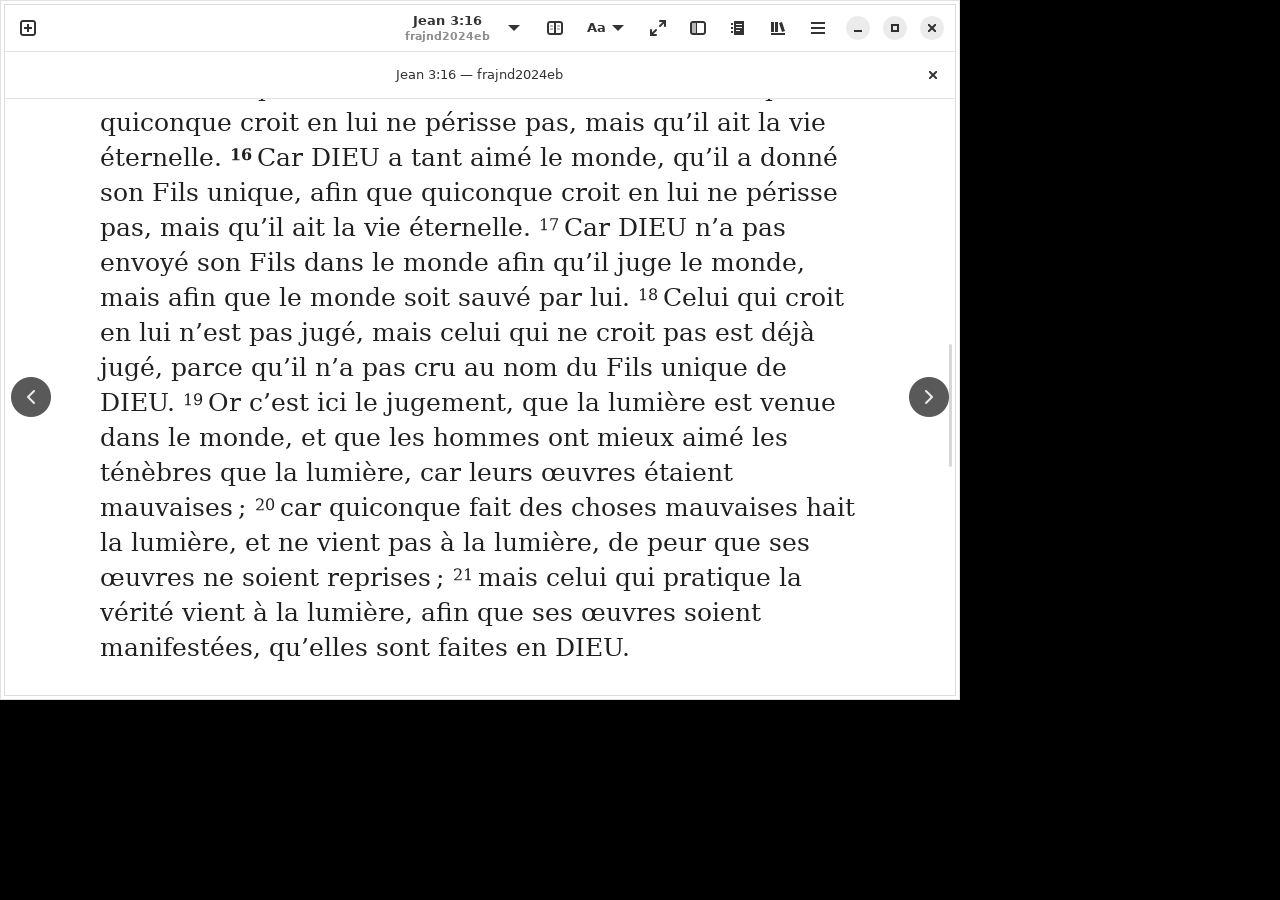
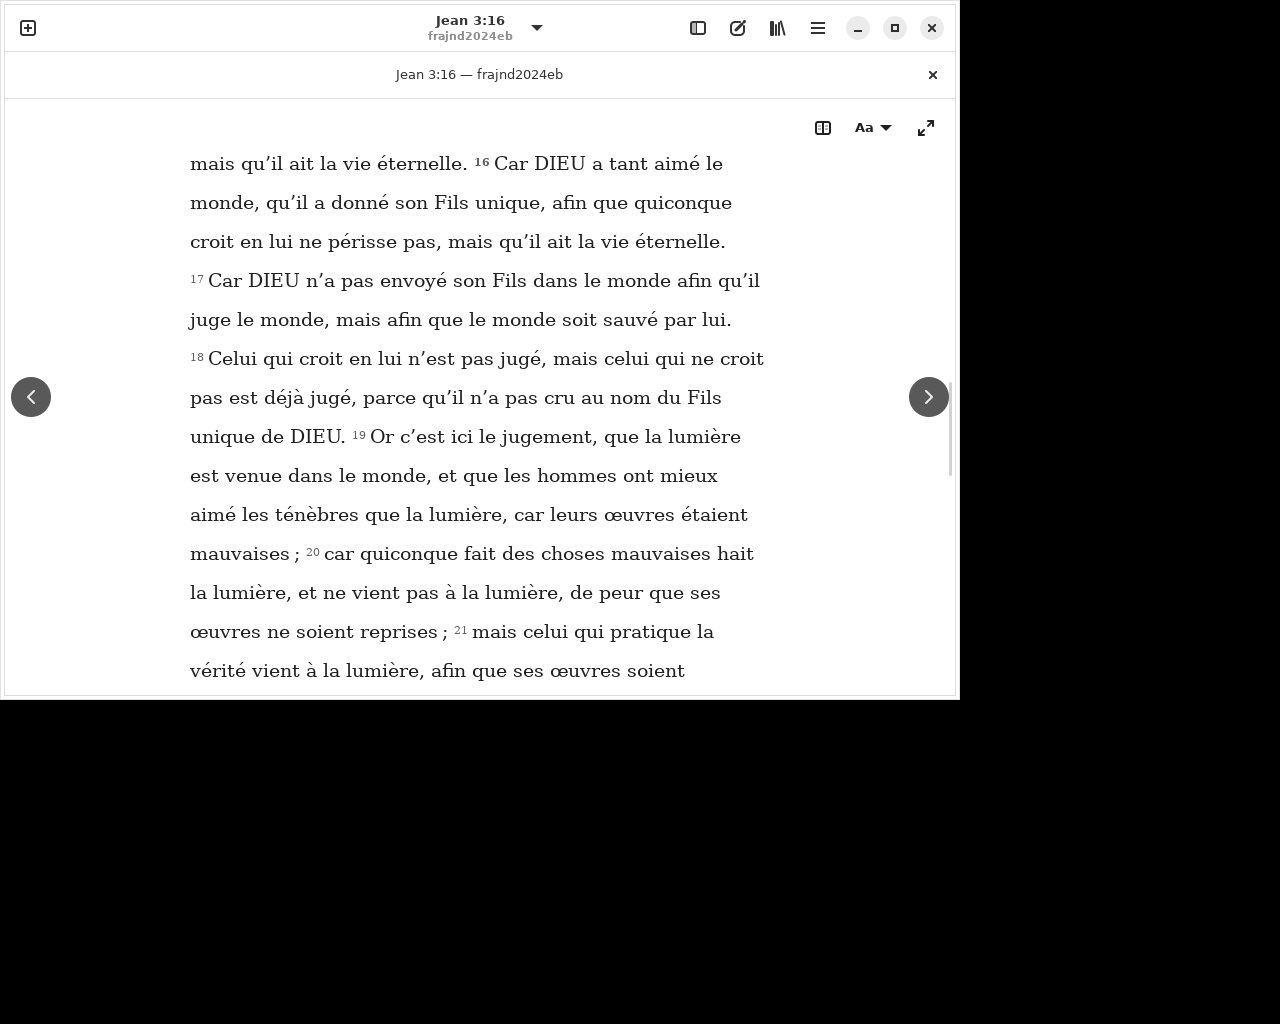
Complete eBible source review and record current guarded metadata inconsistencies

diff --git a/docs/EBIBLE_34_REVIEW.md b/docs/EBIBLE_34_REVIEW.md
@@ -67,3 +67,36 @@ partial failures, cache retention and GTK installed-state checks. JND package
 Catalogue and reader screenshots are in `docs/captures/ebible-34-*-fr.png`.
 These are candidate-source Xvfb checks; a packaged candidate and manual GNOME
 validation are separate, still outstanding checks.
+
+
+## Final source review and integration
+
+The client authorized completing the source review and integration. Current main,
+including #51/#36 corrections and the approved website, is merged. The current
+official AndBible repository file (blob `54e501d47f071e4f0991b3da8b6522bf3ec82dc7`)
+still names HTTPS ebible.org /sword and /sword/zip. Only this stable source is
+added; identity/collision, language, cache and archive/conditions guards are kept.
+No beta, restricted source or Bible.com access is introduced.
+
+The five current catalogue/package pairs were inspected through the normal
+bounded HTTPS downloader. [Exact audit](evidence/ebible-34-current-audit.json):
+
+| Resource | Catalogue/package version | Current guarded metadata |
+| --- | --- | --- |
+| F10 | 90.0 / 99.0 | About differs: installation refused |
+| FOB | 61.0 / 71.0 | About differs: installation refused |
+| FRANCL | 498.0 / 1234.0 | About and conditions differ: installation refused |
+| JND | 2.7 / 2.17 | Guarded terms/type match: installs as actual version 2.17 |
+| SBL | 112.0 / 170.0 | About differs: installation refused |
+
+The four refused installations return the unchanged `Resource conditions changed`
+guard. JND's stale catalogue version is disclosed too; the installer already
+compares actual source/type/versification and complete guarded legal fields,
+not a separate version equality rule. No guard was weakened for any resource.
+This audit covers those five requested examples, not every eBible module.
+
+147 integrated local tests pass. A fresh real JND download/install and a separate
+offline GTK reopen pass; John 3:16 still matches direct SWORD output and the
+previous SHA-256. Updated French catalogue/reader captures are real GTK/Xvfb.
+The source-policy review is complete for this addition. Public availability and
+manual GNOME acceptance are recorded separately after final publication.
